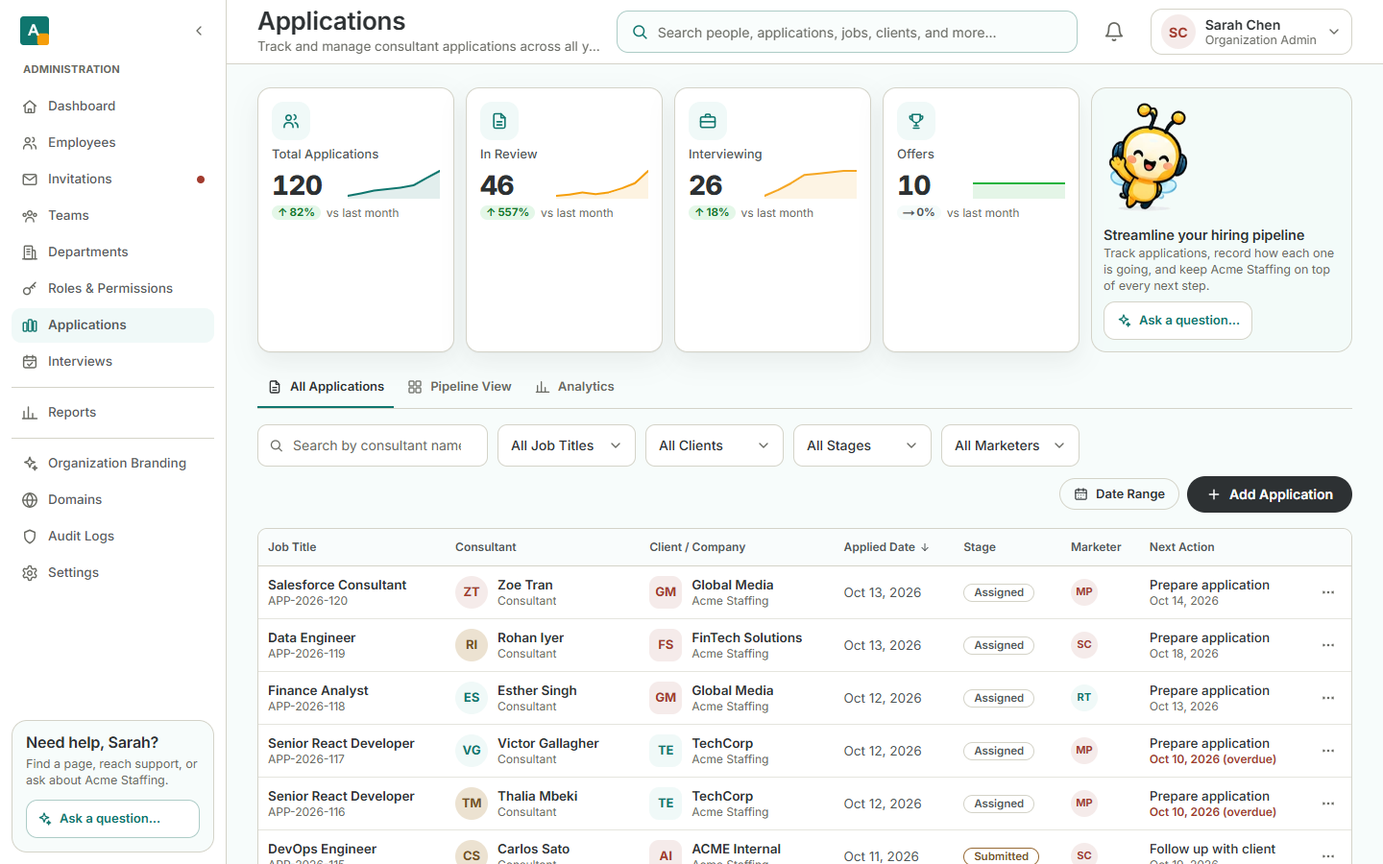
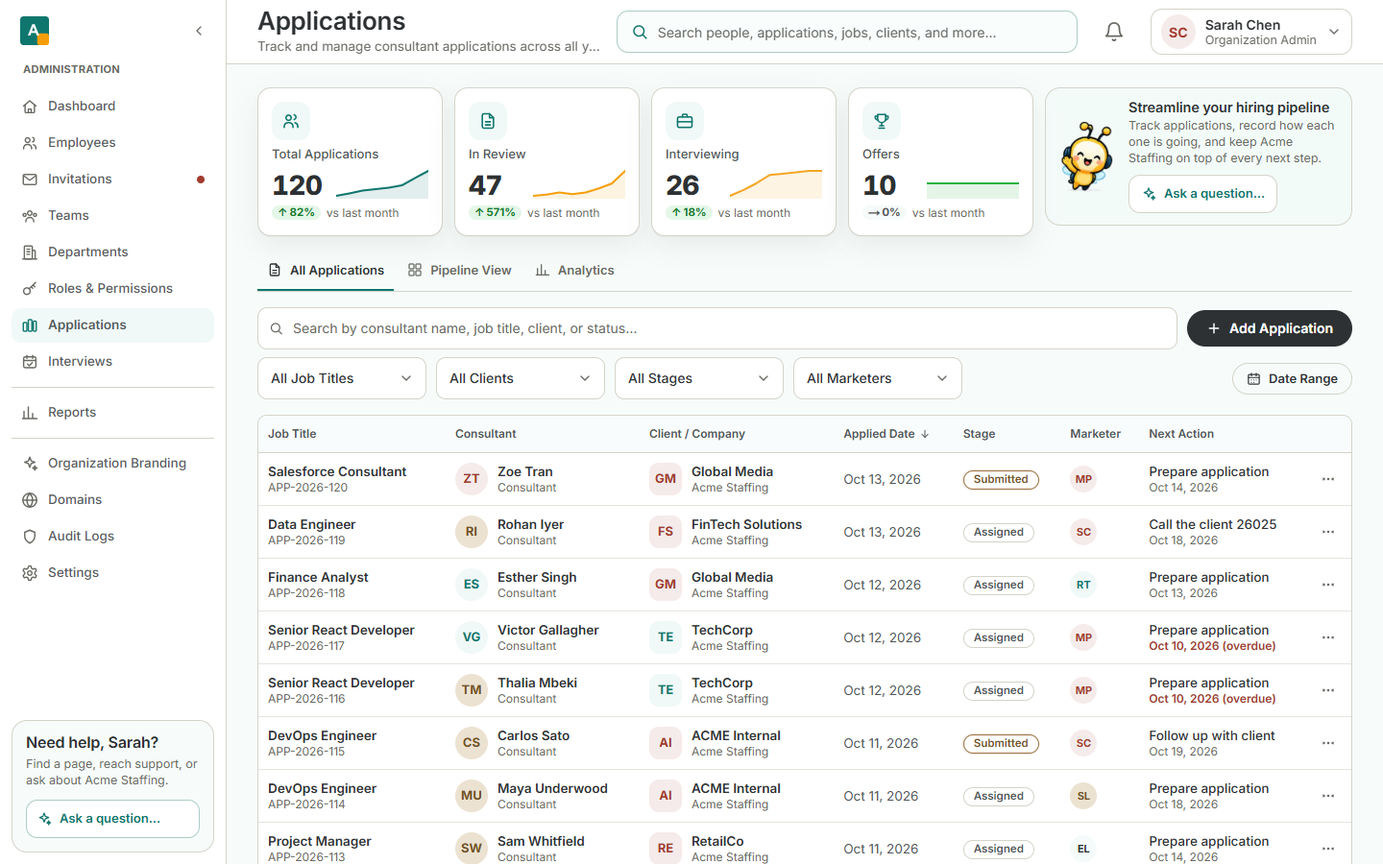
ent-applications: polish (search row, docked tiles, one bee, analytics legend, pipeline filters), docs

diff --git a/web/src/components/ent/applications/ApplicationsPage.tsx b/web/src/components/ent/applications/ApplicationsPage.tsx
@@ -57,6 +57,7 @@ import HelpBeeCard from "./HelpBeeCard";
 import { useStageMove } from "./hooks";
 import KpiTiles from "./KpiTiles";
 import PipelineBoard from "./PipelineBoard";
+import { SearchBox } from "./parts";
 
 const WIDE_QUERY = "(min-width: 1400px)"; // config-literal-ok: the width at which the drawer docks beside the table instead of floating over it
 
@@ -222,15 +223,16 @@ export default function ApplicationsPage({ orgId, orgName, permissions, jobsHref
 
   /* ── filters ─────────────────────────────────────────────────────────────────── */
 
-  const filterValues = { job: view.job, client: view.client, stage: view.stage, marketer: view.marketer };
+  const filterValues: Record<string, string> = view.tab === "pipeline" ? { job: view.job, client: view.client, marketer: view.marketer } : { job: view.job, client: view.client, stage: view.stage, marketer: view.marketer };
   const onFilter = (name: string, value: string) => setView({ [name]: value } as Partial<ViewState>);
   const active = filtersActive(view);
   const clearAll = () => setView({ q: "", stage: "", job: "", client: "", marketer: "", from: "", to: "" });
 
+  /** The pipeline has a column per stage, so it offers no stage filter. */
   const filters = [
     { name: "job", label: "Job Title", allLabel: "All Job Titles", options: options?.jobTitles ?? [] },
     { name: "client", label: "Client", allLabel: "All Clients", options: options?.clients ?? [] },
-    { name: "stage", label: "Stage", allLabel: "All Stages", options: options?.stages ?? [] },
+    ...(view.tab === "pipeline" ? [] : [{ name: "stage", label: "Stage", allLabel: "All Stages", options: options?.stages ?? [] }]),
     { name: "marketer", label: "Marketer", allLabel: "All Marketers", options: options?.marketers ?? [] },
   ];
 
@@ -262,6 +264,8 @@ export default function ApplicationsPage({ orgId, orgName, permissions, jobsHref
   const total = list.status === "ok" ? list.total : 0;
   const mode = narrow ? "sheet" : wide ? "push" : "overlay";
   const drawerOpen = view.selected !== null;
+  /** The drawer sits beside the table (wide screens): the tiles and the promo card stack in the narrower column. */
+  const docked = drawerOpen && mode === "push";
   const dateLabel = view.from || view.to ? `${view.from ? formatDay(view.from) : "Any"} – ${view.to ? formatDay(view.to) : "Any"}` : "Date Range";
 
   const dateControls = (
@@ -277,13 +281,11 @@ export default function ApplicationsPage({ orgId, orgName, permissions, jobsHref
       <PageHeader title="Applications" subtitle="Track and manage consultant applications across all your job opportunities." />
       <div className="flex items-start">
         <div className="min-w-0 flex-1 space-y-4">
-          <div className="grid gap-3 xl:grid-cols-[minmax(0,1fr)_17rem]">
-            <KpiTiles counts={counts.data} loading={counts.status === "loading"} error={counts.status === "error"} />
-            {!drawerOpen && (
-              <div className="hidden md:block">
-                <HelpBeeCard variant="promo" orgName={orgName} supportEmail={supportEmail} />
-              </div>
-            )}
+          <div className={`grid items-stretch gap-3 ${docked ? "" : "xl:grid-cols-[minmax(0,1fr)_20rem]"}`}>
+            <KpiTiles counts={counts.data} loading={counts.status === "loading"} error={counts.status === "error"} docked={docked} />
+            <div className="hidden md:block">
+              <HelpBeeCard variant="promo" orgName={orgName} supportEmail={supportEmail} />
+            </div>
           </div>
 
           <Tabs value={view.tab} onValueChange={(t) => setView({ tab: t as MainTab, page: 0 }, false)} variant="underline">
@@ -296,25 +298,15 @@ export default function ApplicationsPage({ orgId, orgName, permissions, jobsHref
 
           {view.tab !== "analytics" && (
             <div className="space-y-2">
-              <FilterBar
-                compact
-                query={view.q}
-                onQueryChange={(q) => setView({ q })}
-                values={filterValues}
-                onFilterChange={onFilter}
-                search={{ placeholder: "Search by consultant name, job title, client, or status…", label: "Search applications" }}
-                filters={filters}
-                actions={
-                  <>
-                    {dateControls}
-                    {canAdd && (
-                      <Button type="button" onClick={() => setAdding(true)} data-add-application>
-                        <PlusIcon size={16} aria-hidden /> Add Application
-                      </Button>
-                    )}
-                  </>
-                }
-              />
+              <div className="flex items-center gap-2.5">
+                <SearchBox value={view.q} onChange={(q) => setView({ q })} label="Search applications" placeholder="Search by consultant name, job title, client, or status…" />
+                {canAdd && (
+                  <Button type="button" onClick={() => setAdding(true)} data-add-application className="flex-none">
+                    <PlusIcon size={16} aria-hidden /> Add Application
+                  </Button>
+                )}
+              </div>
+              <FilterBar query={view.q} onQueryChange={(q) => setView({ q })} values={filterValues} onFilterChange={onFilter} search={false} filters={filters} actions={dateControls} />
               {dateOpen && (
                 <div className="flex flex-wrap items-end gap-2.5 rounded-[var(--radius)] border border-line bg-paper-2/40 p-2.5" data-date-row>
                   <label className="text-[12.5px] font-medium text-ink-soft">
@@ -349,7 +341,7 @@ export default function ApplicationsPage({ orgId, orgName, permissions, jobsHref
                     rowMenu={rowMenu}
                     sort={view.sort}
                     onSort={(k: SortKey) => setView({ sort: nextSort(view.sort, k) })}
-                    compact={drawerOpen && mode === "push"}
+                    compact={docked}
                   />
                   <Pagination page={view.page} size={view.size} total={total} shown={rows.length} onPage={(page) => setView({ page }, false)} onSize={(size) => setView({ size })} />
                 </>

diff --git a/web/e2e/journeys/tenant-applications.spec.ts b/web/e2e/journeys/tenant-applications.spec.ts
@@ -12,8 +12,12 @@ const base = `http://acme.localhost:${port}`;
 const shots = resolve(__dirname, "../../../design/enterprise-talent/built");
 
 async function signInAsSarah(page: Page) {
-  await page.goto(`${base}/login`);
-  await page.getByRole("button", { name: /Demo accounts/ }).first().click();
+  // the first click can land before the page is hydrated: reload and click again until the demo roster is open
+  await expect(async () => {
+    await page.goto(`${base}/login`);
+    await page.getByRole("button", { name: /Demo accounts/ }).first().click();
+    await expect(page.getByRole("button", { name: "Sign in as Sarah Chen" })).toBeVisible({ timeout: 8000 });
+  }).toPass({ timeout: 90_000 });
   await page.getByRole("button", { name: "Sign in as Sarah Chen" }).click();
   await page.waitForURL((u) => u.pathname.startsWith("/w/"));
 }
@@ -26,6 +30,7 @@ test.describe("applications (real stack)", () => {
   test.use({ viewport: { width: 1440, height: 900 } });
 
   test("the journey", async ({ page }) => {
+    test.slow(); // a loaded shared machine: triple the timeout
     mkdirSync(shots, { recursive: true });
     await signInAsSarah(page);
     await page.goto(`${base}/w/admin/applications`);
@@ -53,7 +58,7 @@ test.describe("applications (real stack)", () => {
     const search = page.getByRole("searchbox", { name: "Search applications" });
     await search.fill("zzzz-nobody");
     await expect(page.getByText("No applications match")).toBeVisible();
-    await page.getByRole("button", { name: "Clear filters" }).click();
+    await page.getByRole("button", { name: "Clear filters" }).first().click();
     await expect(page.locator("tr[data-row-id]")).toHaveCount(10);
     await expect(page).not.toHaveURL(/stage=/);
 
@@ -77,10 +82,11 @@ test.describe("applications (real stack)", () => {
     await drawer(page).locator("[data-move-trigger]").click();
     await expect(page.getByRole("menuitem", { name: "Record as Submitted" })).toBeVisible();
     await page.getByRole("menuitem", { name: "Record as Submitted" }).click();
+    // the Undo toast is short-lived: act on it first, check the rest afterwards
+    const undo = page.getByRole("button", { name: "Undo" }).last();
+    await expect(undo).toBeVisible();
     await expect(page.getByText(/recorded as Submitted/)).toBeVisible();
-    await expect(drawer(page).locator("[data-step=SUBMITTED][data-step-state=CURRENT]")).toBeVisible();
-    await expect(page.locator("tr[data-row-id]", { hasText: "Submitted" }).first()).toBeVisible().catch(() => undefined);
-    await page.getByRole("button", { name: "Undo" }).last().click();
+    await undo.click();
     await expect(page.getByText("Undone", { exact: true })).toBeVisible();
     await expect(drawer(page).locator("[data-step=ASSIGNED][data-step-state=CURRENT]")).toBeVisible();
 
@@ -94,6 +100,7 @@ test.describe("applications (real stack)", () => {
 
     // add a note
     await drawer(page).getByRole("tab", { name: /^Notes/ }).click();
+    await expect(drawer(page).locator("[data-notes]")).toBeVisible();
     const before = await drawer(page).locator("[data-note-id]").count();
     await drawer(page).getByRole("textbox", { name: "Add a note" }).fill("Client prefers a Friday call");
     await drawer(page).getByRole("button", { name: "Add note" }).click();

diff --git a/web/src/components/ent/applications/DetailDrawer.tsx b/web/src/components/ent/applications/DetailDrawer.tsx
@@ -89,8 +89,8 @@ export function ProgressSteps({ steps }: { steps: Step[] }) {
             >
               {done ? "✓" : i + 1}
             </span>
-            <span className={`mt-1.5 text-[11.5px] font-semibold leading-tight ${current ? "text-ink" : "text-ink-soft"}`}>{s.label}</span>
-            <span className="text-[11px] leading-tight text-muted">{s.reachedAt ? formatShort(s.reachedAt) : current ? "Current" : " "}</span>
+            <span className={`mt-1.5 text-[10.5px] font-semibold leading-tight sm:text-[11.5px] ${current ? "text-ink" : "text-ink-soft"}`}>{s.label}</span>
+            <span className="text-[10.5px] leading-tight text-muted sm:text-[11px]">{s.reachedAt ? formatShort(s.reachedAt) : current ? "Current" : " "}</span>
             {current && s.reachedAt && <span className="mt-0.5 rounded-full bg-accent-soft px-2 text-[10.5px] font-semibold text-accent-deep">Current</span>}
           </li>
         );
@@ -341,23 +341,19 @@ export default function DetailDrawer(p: DetailDrawerProps) {
     const options = d.actions.moveStage ? moveOptions(d.nextStages) : [];
     return (
       <div data-detail-body data-application-id={d.id}>
-        <div className="flex items-start gap-3">
+        <div className="flex items-start gap-3" data-drawer-head>
           <ClientTile client={d.client} size={44} />
           <div className="min-w-0 flex-1">
-            <h3 className="truncate text-[16px] font-bold leading-tight text-ink">{d.jobTitle}</h3>
-            <p className="text-[12.5px] text-muted" data-code>{d.code}</p>
+            <p className="truncate text-[13.5px] font-semibold text-ink">
+              {d.client.name} <span className="font-normal text-muted">({p.orgName})</span>
+            </p>
             <div className="mt-1.5 flex flex-wrap items-center gap-1.5">
               <StagePill stage={d.stage} reason={d.closedReason} />
               {d.employmentLabel && <span className="rounded-full bg-paper-2 px-2.5 py-[3px] text-[11.5px] font-semibold leading-none text-ink-soft">{EMPLOYMENT[d.employmentLabel] ?? d.employmentLabel}</span>}
             </div>
           </div>
-        </div>
-        <div className="mt-3 flex items-center justify-between gap-2 text-[13px]">
-          <span className="min-w-0 truncate font-semibold text-ink">
-            {d.client.name} <span className="font-normal text-muted">({p.orgName})</span>
-          </span>
           {p.jobsHref && (
-            <Link href={p.jobsHref} className="inline-flex flex-none items-center gap-1 font-semibold text-accent-deep hover:underline">
+            <Link href={p.jobsHref} className="inline-flex flex-none items-center gap-1 text-[13px] font-semibold text-accent-deep hover:underline">
               View Job <ArrowRightIcon size={14} aria-hidden />
             </Link>
           )}

diff --git a/web/src/components/ent/applications/parts.tsx b/web/src/components/ent/applications/parts.tsx
@@ -1,7 +1,8 @@
 "use client";
 
+import { useEffect, useRef, useState } from "react";
 import type { ReactNode } from "react";
-import { MemberAvatar, StatePill, Tooltip, hasStateMap, registerStateMap } from "@kiwiply/ui";
+import { Input, MemberAvatar, SEARCH_DEBOUNCE_MS, SearchIcon, StatePill, Tooltip, hasStateMap, registerStateMap } from "@kiwiply/ui";
 import { REASON_LABEL, stageLabel, type ClientRef, type Marketer, type PersonRef } from "@/lib/ent/applications";
 
 /** The application stage map of the StatePill: grey Assigned/Closed, amber Submitted/Interviewing, grey Under Review, green Offer. */
@@ -73,5 +74,53 @@ export function MarketerCell({ marketer, withName = false }: { marketer: Markete
       {withName && <span className="truncate text-[13px] text-ink">{marketer.name}</span>}
       {!withName && <span className="sr-only">{marketer.name}</span>}
     </span>
+  );
+}
+
+/**
+ * The wide search box of the board (the shared FilterBar keeps its box narrow beside its dropdowns). Same behaviour: typing is debounced,
+ * Enter sends at once, Esc clears, and a value that changes from outside (the URL, "Clear filters") shows up in the box.
+ */
+export function SearchBox({ value, onChange, label, placeholder }: { value: string; onChange: (q: string) => void; label: string; placeholder: string }) {
+  const [text, setText] = useState(value);
+  const sent = useRef(value);
+  useEffect(() => {
+    if (value !== sent.current) {
+      sent.current = value;
+      setText(value);
+    }
+  }, [value]);
+  useEffect(() => {
+    if (text === sent.current) return;
+    const timer = setTimeout(() => {
+      if (text === sent.current) return;
+      sent.current = text;
+      onChange(text);
+    }, SEARCH_DEBOUNCE_MS);
+    return () => clearTimeout(timer);
+    // the page's setter changes identity on every render; the timer restarts on every keystroke
+    // eslint-disable-next-line react-hooks/exhaustive-deps
+  }, [text]);
+  return (
+    <div role="search" className="relative min-w-0 flex-1">
+      <SearchIcon aria-hidden size={15} className="pointer-events-none absolute left-3 top-1/2 -translate-y-1/2 text-muted" />
+      <Input
+        type="search"
+        value={text}
+        placeholder={placeholder}
+        aria-label={label}
+        onChange={(e) => setText(e.target.value)}
+        onKeyDown={(e) => {
+          if (e.key === "Enter") {
+            e.preventDefault();
+            if (text !== sent.current) {
+              sent.current = text;
+              onChange(text);
+            }
+          } else if (e.key === "Escape" && text !== "") setText("");
+        }}
+        className="pl-9"
+      />
+    </div>
   );
 }

diff --git a/web/src/components/ent/applications/HelpBeeCard.tsx b/web/src/components/ent/applications/HelpBeeCard.tsx
@@ -7,9 +7,10 @@ import { helpLinks } from "@/lib/ent/shell";
 import { ClaimsMascot } from "@/components/ent/shell/ShellContext";
 
 /**
- * A help card with the enterprise bee: the page's one mascot (it tells the shell to drop the sidebar card's bee while it is on screen).
+ * A help card. The `promo` card carries the page's ONE enterprise bee (it tells the shell to drop the sidebar card's bee while it is on screen);
+ * the `help` card under an open application is text only, so the view never shows two bees.
  * "Ask a question..." opens the same help panel the shell offers (no assistant yet: it lists where a person can be reached).
- * `variant="promo"` is the top-right card of the board ("Streamline your hiring pipeline"), `variant="help"` the one under an open application.
+ * `variant="promo"` is the top-right card of the board ("Streamline your hiring pipeline"), always on screen from md up; `variant="help"` the one under an open application.
  */
 export default function HelpBeeCard({
   variant,
@@ -27,10 +28,14 @@ export default function HelpBeeCard({
     <section
       aria-label={promo ? "Hiring pipeline tips" : "Help with this application"}
       data-help-bee={variant}
-      className={`flex gap-3 overflow-hidden rounded-2xl border border-line bg-accent-soft/50 p-3 ${promo ? "flex-col sm:flex-row xl:flex-col" : "items-center"}`}
+      className="flex items-center gap-3 overflow-hidden rounded-2xl border border-line bg-accent-soft/50 p-3"
     >
-      <ClaimsMascot />
-      <EnterpriseMascot pose={promo ? "greet" : "peek"} size={promo ? "lg" : "md"} />
+      {promo && (
+        <>
+          <ClaimsMascot />
+          <EnterpriseMascot pose="greet" size="md" />
+        </>
+      )}
       <div className="min-w-0 flex-1">
         <h2 className="text-[14.5px] font-bold leading-tight text-ink">{promo ? "Streamline your hiring pipeline" : "Need help with this application?"}</h2>
         <p className="mt-0.5 text-[12.5px] leading-snug text-muted">

diff --git a/web/src/components/ent/applications/AnalyticsTab.tsx b/web/src/components/ent/applications/AnalyticsTab.tsx
@@ -38,14 +38,14 @@ function Bars({ rows, label }: { rows: Bucket[]; label: string }) {
  */
 export default function AnalyticsTab({ data }: { data: Analytics }) {
   if (data.total === 0) {
-    return <EmptyState variant="inline" mascot mascotPose="empty" title="No applications to analyse yet" description="Charts appear once applications are added to the pipeline." />;
+    return <EmptyState variant="inline" mascot={false} title="No applications to analyse yet" description="Charts appear once applications are added to the pipeline." />;
   }
   const funnel = data.reached;
   const first = funnel[0]?.count ?? 0;
   return (
     <div className="grid gap-3 lg:grid-cols-2" data-analytics-tab>
       <Panel title="Where applications are now" testId="stages">
-        <div className="flex flex-wrap items-center gap-4">
+        <div>
           <DonutChart
             label="Applications by stage"
             total={data.total}
@@ -53,14 +53,6 @@ export default function AnalyticsTab({ data }: { data: Analytics }) {
             size={140}
             slices={data.byStage.map((b, i) => ({ key: b.key, label: b.label, value: b.count, color: chartColor(i) }))}
           />
-          <ul className="min-w-0 flex-1 space-y-1 text-[12.5px]">
-            {data.byStage.map((b, i) => (
-              <li key={b.key} className="flex items-center justify-between gap-2">
-                <span className="flex items-center gap-2 text-ink-soft"><span aria-hidden className="h-2.5 w-2.5 rounded-full" style={{ background: chartColor(i) }} />{b.label}</span>
-                <span className="font-semibold tabular-nums text-ink">{b.count}</span>
-              </li>
-            ))}
-          </ul>
         </div>
         <p className="mt-3 text-[12.5px] text-muted">
           {data.open} open

diff --git a/web/src/components/ent/applications/KpiTiles.tsx b/web/src/components/ent/applications/KpiTiles.tsx
@@ -21,9 +21,9 @@ const TILES: TileDef[] = [
  * The four KPI tiles. The delta ("vs last month") is drawn only when the API rebuilt a figure from thirty days ago: an organization
  * younger than a month shows the figure alone. The sparkline is the weekly series the API computed from the application history.
  */
-export default function KpiTiles({ counts, loading, error }: { counts: Counts | null; loading: boolean; error: boolean }) {
+export default function KpiTiles({ counts, loading, error, docked = false }: { counts: Counts | null; loading: boolean; error: boolean; docked?: boolean }) {
   return (
-    <ul aria-label="Application figures" className="grid grid-cols-2 gap-3 xl:grid-cols-4" data-kpi-tiles>
+    <ul aria-label="Application figures" className={`grid grid-cols-2 gap-3 ${docked ? "lg:grid-cols-4" : "xl:grid-cols-4"}`} data-kpi-tiles>
       {TILES.map((t, i) => {
         const tile: Tile | null = counts ? counts[t.key] : null;
         const delta = tile ? deltaOf(tile.value, tile.previous) : null;
@@ -43,7 +43,7 @@ export default function KpiTiles({ counts, loading, error }: { counts: Counts | 
                   </span>
                 )}
                 {tile && tile.series.length > 1 && (
-                  <span className="w-20 flex-none sm:w-24">
+                  <span className={`flex-none ${docked ? "w-14" : "w-20 sm:w-24"}`}>
                     <Sparkline values={tile.series} color={chartColor(i)} label={`${t.label}, last ${tile.series.length} weeks`} />
                   </span>
                 )}

diff --git a/api/src/main/java/com/dossier/api/service/ent/applications/ApplicationQueryService.java b/api/src/main/java/com/dossier/api/service/ent/applications/ApplicationQueryService.java
@@ -571,9 +571,10 @@ public class ApplicationQueryService {
         List<ApplicationDTO.NoteItem> noteItems = ns.stream().map(n -> new ApplicationDTO.NoteItem(n.getId(), names.marketer(n.getAuthorMemberId(), who), n.getBody(), n.getCreatedAt())).toList();
 
         boolean edit = access.canWrite(me, ApplicationAccess.WRITE_KEYS, a);
-        boolean move = edit && !ApplicationStages.CLOSED.equals(a.getStage()) && access.canWrite(me, List.of(ApplicationAccess.KEY_RECORD, ApplicationAccess.KEY_FOLLOWUP, ApplicationAccess.KEY_OFFERS), a);
+        boolean canRecord = edit && access.canWrite(me, List.of(ApplicationAccess.KEY_RECORD, ApplicationAccess.KEY_FOLLOWUP, ApplicationAccess.KEY_OFFERS), a);
+        boolean move = canRecord && !ApplicationStages.CLOSED.equals(a.getStage());
         boolean reassign = access.canWrite(me, List.of(ApplicationAccess.KEY_REASSIGN), a);
-        ApplicationDTO.UndoToken undo = move ? undoToken(me, a, evs) : null;
+        ApplicationDTO.UndoToken undo = canRecord ? undoToken(me, a, evs) : null; // a move to Closed can be undone too
         boolean mayMove = move;
         return new ApplicationDTO.Detail(
             a.getId(), a.getCode(), r.getId(), r.getTitle(), r.getEmploymentLabel(), consultantRef(c), clientRef(cl), a.getAppliedOn(), a.getStage(), a.getClosedReason(), a.getSourceLabel(),

diff --git a/api/src/test/java/com/dossier/api/web/rest/ent/OrgApplicationResourceIT.java b/api/src/test/java/com/dossier/api/web/rest/ent/OrgApplicationResourceIT.java
@@ -31,6 +31,8 @@ import org.springframework.transaction.annotation.Transactional;
 @IntegrationTest
 @AutoConfigureMockMvc
 @Transactional
+// the real chain with a MySQL container: give a loaded machine more than the 15 s global default
+@org.junit.jupiter.api.Timeout(120)
 class OrgApplicationResourceIT extends MemberItSupport {
 
     private ClientAccount client;
@@ -386,7 +388,7 @@ class OrgApplicationResourceIT extends MemberItSupport {
         assertThat(json(send("owner", patch(url() + "/" + app1.getId()), "{\"nextActionDue\":null}")).path("nextActionDue").isNull()).isTrue();
         assertCode(send("owner", patch(url() + "/" + app1.getId()), "{\"stage\":\"OFFER\"}"), 422, "FIELD_UNKNOWN");
         assertStatus(send("owner", patch(url() + "/" + app1.getId()), "{\"nextActionDue\":\"tomorrow\"}"), 422);
-        assertStatus(send("owner", patch(url() + "/" + app1.getId()), "{\"nextAction\":\"card 4111 1111 1111 1111\"}"), 422);
+        assertStatus(send("owner", patch(url() + "/" + app1.getId()), "{\"nextAction\":\"SSN 123-45-6789\"}"), 422);
     }
 
     @Test

diff --git a/docs/enterprise-v2/progress-tracker.md b/docs/enterprise-v2/progress-tracker.md
@@ -373,3 +373,7 @@
   - **Decisions I made:** (1) Permissions are NOT autosaved (the explicit confirm step lists added / removed / moved; the API audits HIGH); a rename alone saves directly. (2) The undo of a delete re-creates the role (new id, same rows, same template): there is no soft delete. (3) A role holding anything beyond the viewer's reach opens view only (the API refuses the whole role), with Duplicate. (4) Scope choices per key: OWN-natural keys only OWN; people families ASSIGNED..ORG; others ORG; plus any scope a shipped template uses. (5) `Select` popups were under dialogs (z 200 vs 1000): raised to 1100 in `@kiwiply/ui` (found by the real-stack run). (6) `passthrough` in `admin-proxy` now answers a 204 as an empty 204 (a body on a 204 throws). (7) The mock ORG_ADMIN list is parsed from `EntPermissions.java` so it cannot drift.
   - **Not done / gaps:** ROLE_ASSIGN / REVOKE rows appear only in the org-wide history, not per role; the Employees page link target (`/w/admin/employees?role=`) depends on that page honouring the `role` filter; per-role and per-member caps are still constants; `OrgIsolationIT` every-route (known member PATCH 412) and `EntRolesMigrationIT` (known rollback) fail on the base and are not mine.
 - 2026-10-13 — Talent foundation (branch `ent-talent`, Sonnet): additive `20261019010000_ent_talent.xml` (17 org-owned tables for Jobs / Consultants / Marketing Assignments / Applications / Resumes and the dashboard talent tiles), entities + org-scoped repositories under `domain|repository/ent/talent`, `TalentDemoSeeder` (Acme 153 consultants / 120 applications, Beta ~30 %, six months of rising history), `TalentSchemaIT` (7). No new permission keys. Handoff: `docs/enterprise-v2/talent-foundation.md`.
+- 2026-10-13 — Applications page (`/w/admin/applications`) built end to end on `ent-applications` (cut from `ent-talent`, Sonnet): `OrgApplicationResource` (list, counts, filters, pickers, pipeline, analytics, detail, add, edit, stage move + undo, notes; scope from `pipeline.view`, writes from `submissions.*` / `followups.manage` / `offers.manage`, generic 404s, audit `APPLICATION_*`), web page under `components/ent/applications` (KPI tiles with real deltas and weekly sparklines rebuilt from `talent_application_event`, table/cards, Pipeline and Analytics tabs, drawer with stepper, notes, activity, autosaved edits, Add Application dialog, URL state), spec doc `page-applications.md`.
+  - **Rule kept (E1):** every stage move is a RECORD ("Record as Submitted"); there is no submit action anywhere; Undo appends a `STAGE_REVERT` event (history stays append-only).
+  - **Verified:** `OrgApplicationResourceIT` 23/23 and `OrgIsolationIT` 10/10 (the all-routes test needed `-Djunit.jupiter.execution.timeout.mode=disabled` on a loaded machine: its 90 s limit timed out once, then passed), vitest 43 new tests, tsc + eslint clean, `npm run build` ok, real-stack journey `tenant-applications.spec.ts` (desktop + 390 px) green against API 18194 / web 3204 / DB `dossier_ent_applications`. Screenshots in `design/enterprise-talent/built/applications-*.png`.
+  - **Gaps:** no row checkboxes or bulk actions; marking Hired does not create a placement; no logos or photos (initials tiles); the web mock API has no talent data; `PATCH` has no If-Match (last writer wins); History replay per request (fine for thousands of rows).

diff --git a/docs/enterprise-v2/page-applications.md b/docs/enterprise-v2/page-applications.md
@@ -47,7 +47,7 @@ at eight weekly points is replayed from its latest event up to that instant. An 
 view), `KpiTiles` (tile, `Sparkline`, `DeltaChip`), `ApplicationsTable` (table at desktop, cards on a phone, pager), `PipelineBoard`
 (`KanbanBoard`, cards move by their menu, no dragging), `AnalyticsTab` (`DonutChart`, `BarChart`, bars), `DetailDrawer` (`SideSheet` / `BottomSheet`;
 stepper, Overview / Timeline / Notes (n) / Activity, edit with autosave, "Record a move" menu), `AddApplicationDialog` (searchable pickers),
-`HelpBeeCard` (the page's one bee: the promo card when no application is open, the help card in the drawer when one is), `hooks.ts`
+`HelpBeeCard` (the page's ONE bee lives on the top-right promo card; the help card under an open application is text only), `hooks.ts`
 (`useApplicationDetail`, `useStageMove`: every move toasts "recorded as X" with an Undo). BFF: one catch-all handler
 `web/src/app/api/orgs/[orgId]/applications/[[...path]]` (`applications-bff.ts`: numeric ids, known routes, JSON object bodies only).
 Client and URL helpers: `web/src/lib/ent/applications.ts`. No Save buttons (fields save as you type; a note and Add application are explicit sends).
